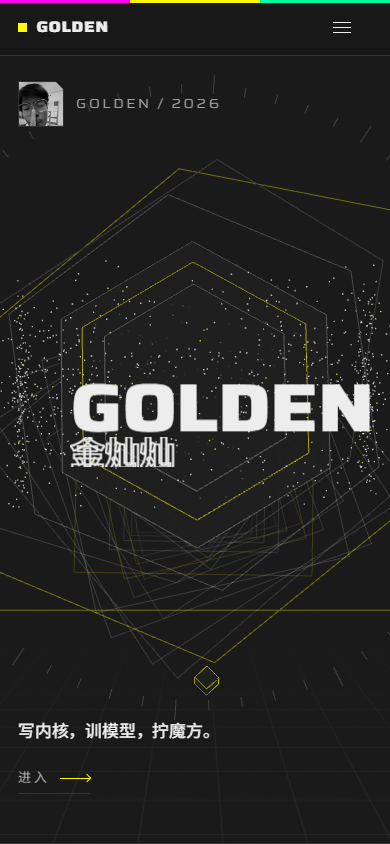
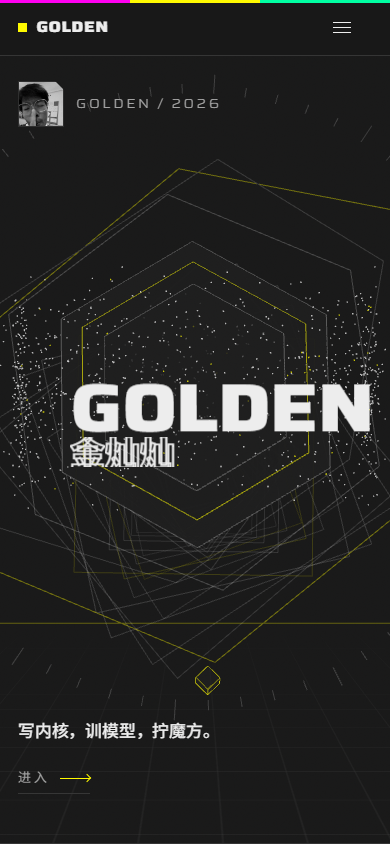
feat: enable 3D on phones/small screens, lazy-mount viewers, lower dpr on mobile, WebGL notice

diff --git a/assets/js/app.js b/assets/js/app.js
@@ -162,7 +162,7 @@
     if (ov) { ov.hidden = true; ov.classList.remove('is-on', 'is-out'); }
     var r = $('#fab-replay');
     if (r) {
-      var can = active && !!(window.__hasWebGL && window.GoldenCity && window.innerWidth >= 900 && !reduce);
+      var can = active && !!(window.__hasWebGL && window.GoldenCity && !reduce);
       r.style.display = can ? '' : 'none';
     }
   }
@@ -208,7 +208,7 @@
   function startFabCinema(replay) {
     if (cinema.playing) return;
     if (location.search.indexOf('nocine') >= 0) { markFabDone(false); return; }
-    if (!window.GoldenCity || reduce || window.innerWidth < 900 || !window.__hasWebGL) {
+    if (!window.GoldenCity || reduce || !window.__hasWebGL) {
       markFabDone(false);
       return;
     }
@@ -259,7 +259,7 @@
     });
     var fab = document.getElementById('fab');
     if (!fab) return;
-    if (!window.__hasWebGL || reduce || window.innerWidth < 900) { markFabDone(false); return; }
+    if (!window.__hasWebGL || reduce) { markFabDone(false); return; }
     if (!('IntersectionObserver' in window)) { return; }
     var io = new IntersectionObserver(function (entries) {
       if (entries[0].isIntersecting && !cinema.played) {
@@ -335,6 +335,7 @@
     renderFabCinema();
     syncArch();
     prepareText();
+    webglNotice();
     if (state.booted) setTimeout(revealVisible, 60);
     if (persist) { try { localStorage.setItem('golden-lang', state.lang); } catch (e) {} }
     applyTheme(state.theme, false);
@@ -622,20 +623,20 @@
     } catch (e) { archApi = null; }
   }
   var specimens = { skills: null, works: null, fab: null };
-  function mountSpecimens() {
-    if (!window.GoldenSpecimen) return;
-    $$('.specimen-canvas[data-specimen]').forEach(function (cv) {
-      var kind = cv.getAttribute('data-specimen');
-      if (specimens[kind]) return;
-      var api = window.GoldenSpecimen.mount(cv, kind, { theme: state.theme });
-      if (!api) return;
-      specimens[kind] = api;
-      var wrap = cv.closest('.skill-stage, .work-stage, .fab-art');
-      if (wrap) wrap.classList.add('has-specimen');
-    });
-    if (specimens.skills) specimens.skills.setVariant(state.skill);
-    if (specimens.works) specimens.works.setVariant(state.work);
-    if (specimens.fab) specimens.fab.setVariant(0);
+  function ensureSpecimen(kind) {
+    if (specimens[kind] || !window.GoldenSpecimen) return;
+    /* on phones the fab block is replaced by the city cinema; skip one WebGL context */
+    if (kind === 'fab' && window.innerWidth < 900) return;
+    var cv = document.querySelector('.specimen-canvas[data-specimen="' + kind + '"]');
+    if (!cv) return;
+    var api = window.GoldenSpecimen.mount(cv, kind, { theme: state.theme });
+    if (!api) return;
+    specimens[kind] = api;
+    var wrap = cv.closest('.skill-stage, .work-stage, .fab-art');
+    if (wrap) wrap.classList.add('has-specimen');
+    if (kind === 'skills') api.setVariant(state.skill);
+    else if (kind === 'works') api.setVariant(state.work);
+    else api.setVariant(0);
   }
 
   function renderKinetic() {
@@ -1144,8 +1145,18 @@
     setTimeout(function () { if (!done) { setTarget(100); setTimeout(finish, 200); } }, MIN + 4000);
   }
 
+  function webglNotice() {
+    if (window.__hasWebGL) return;
+    document.documentElement.classList.add('no-webgl');
+    var el = $('#foot-webgl');
+    if (el) el.textContent = state.lang === 'en'
+      ? '3D off · this browser has no WebGL / hardware acceleration'
+      : '3D 已关闭 · 浏览器未启用 WebGL / 硬件加速';
+  }
+
   function startSite() {
     if (state.booted) return;
+    webglNotice();
     state.booted = true;
     document.body.classList.add('is-ready');
     setTimeout(function () {
@@ -1155,7 +1166,6 @@
       }
       ensureArch();
       if (archApi && archApi.pause) archApi.pause();
-      mountSpecimens();
       if (window.GoldenCube && window.__hasWebGL) {
         try {
           var api = window.GoldenCube.mount($('#cube-root'));
@@ -1452,8 +1462,9 @@
             setTimeout(function () { pg.classList.remove('is-entering'); }, 1400);
           }
         }
-        if (en.target.id === 'skills' && specimens.skills && specimens.skills.replay) specimens.skills.replay();
-        if (en.target.id === 'works' && specimens.works && specimens.works.replay) specimens.works.replay();
+        if (en.target.id === 'skills') { ensureSpecimen('skills'); if (specimens.skills && specimens.skills.replay) specimens.skills.replay(); }
+        if (en.target.id === 'works') { ensureSpecimen('works'); if (specimens.works && specimens.works.replay) specimens.works.replay(); }
+        if (en.target.id === 'fab') ensureSpecimen('fab');
         io.unobserve(en.target);
       });
     }, { threshold: 0.14, rootMargin: '0px 0px -5% 0px' });

diff --git a/tools/qa/mobile3d.js b/tools/qa/mobile3d.js
@@ -1,0 +1,55 @@
+const { chromium } = require("playwright");
+const path = require("path");
+const URL = "file:///" + path.resolve(__dirname, "../../index.html").replace(/\\\\/g, "/");
+(async () => {
+  const b = await chromium.launch();
+  const out = { errors: [] };
+  const ctx = await b.newContext({ viewport: { width: 390, height: 844 }, isMobile: true, hasTouch: true, deviceScaleFactor: 2 });
+  const p = await ctx.newPage();
+  p.on("pageerror", e => out.errors.push("PAGEERROR " + e.message));
+  p.on("console", m => { if (m.type() === "error") out.errors.push("CONSOLE " + m.text()); });
+  await p.goto(URL + "?nocine=1", { waitUntil: "load" });
+  await p.waitForTimeout(5200);
+  out.base = await p.evaluate(() => ({
+    webgl: window.__hasWebGL,
+    hero: !!document.querySelector("#hero-canvas"),
+    construct: getComputedStyle(document.getElementById("construct-canvas")).display,
+    cube: document.getElementById("cube-root").className,
+    overflow: document.documentElement.scrollWidth - innerWidth
+  }));
+  await p.screenshot({ path: "shots/m-hero-3d.png" });
+  await p.evaluate(() => window.scrollTo(0, document.getElementById("skills").offsetTop - 50));
+  await p.waitForTimeout(2000);
+  out.skills = await p.evaluate(() => {
+    const cv = document.querySelector('.skill-stage .specimen-canvas');
+    const g = document.createElement("canvas"); g.width=160; g.height=120;
+    const cx = g.getContext("2d"); cx.drawImage(cv,0,0,160,120);
+    const d = cx.getImageData(0,0,160,120).data; let n=0; for(let i=3;i<d.length;i+=4) if(d[i]>8)n++;
+    return { has: document.querySelectorAll(".has-specimen").length, nonEmpty: n, w: cv.width, h: cv.height };
+  });
+  await p.screenshot({ path: "shots/m-skills-3d.png" });
+  await p.evaluate(() => window.scrollTo(0, document.getElementById("works").offsetTop - 50));
+  await p.waitForTimeout(1800);
+  out.works = await p.evaluate(() => {
+    const cv = document.querySelector('.work-stage .specimen-canvas');
+    const g = document.createElement("canvas"); g.width=160; g.height=120;
+    const cx = g.getContext("2d"); cx.drawImage(cv,0,0,160,120);
+    const d = cx.getImageData(0,0,160,120).data; let n=0; for(let i=3;i<d.length;i+=4) if(d[i]>8)n++;
+    return { nonEmpty: n, w: cv.width, h: cv.height };
+  });
+  await p.screenshot({ path: "shots/m-works-3d.png" });
+
+  // mobile city cinema
+  const p2 = await ctx.newPage();
+  p2.on("pageerror", e => out.errors.push("CINEMA " + e.message));
+  await p2.goto(URL, { waitUntil: "load" });
+  await p2.waitForTimeout(5200);
+  await p2.evaluate(() => window.scrollTo(0, document.getElementById("fab").offsetTop - 80));
+  await p2.waitForSelector("#fab-cinema.is-on", { timeout: 15000 });
+  await p2.waitForSelector("#fab-cinema.is-shenzhen", { timeout: 16000 });
+  await p2.waitForTimeout(900);
+  await p2.screenshot({ path: "shots/m-cinema-3d.png" });
+  out.cinema = await p2.evaluate(() => ({ parent: document.getElementById("city-canvas").parentElement.id, locked: document.documentElement.classList.contains("is-cinema"), overflow: document.documentElement.scrollWidth - innerWidth }));
+  console.log(JSON.stringify(out, null, 2));
+  await b.close();
+})();

diff --git a/tools/qa/final-mobile.js b/tools/qa/final-mobile.js
@@ -1,0 +1,35 @@
+const { chromium } = require("playwright");
+const path = require("path");
+const URL = "file:///" + path.resolve(__dirname, "../../index.html").replace(/\\\\/g, "/");
+(async () => {
+  const b = await chromium.launch();
+  const out = { errors: [] };
+  // mobile finish landing
+  const mctx = await b.newContext({ viewport: { width: 390, height: 844 }, isMobile: true, hasTouch: true, deviceScaleFactor: 2 });
+  const mp = await mctx.newPage();
+  mp.on("pageerror", e => out.errors.push("M " + e.message));
+  await mp.goto(URL, { waitUntil: "load" });
+  await mp.waitForTimeout(5200);
+  await mp.evaluate(() => window.scrollTo(0, document.getElementById("fab").offsetTop - 80));
+  await mp.waitForSelector("#fab-cinema.is-on", { timeout: 16000 });
+  await mp.waitForSelector("#fab-cinema.is-shenzhen", { timeout: 18000 });
+  await mp.waitForTimeout(900);
+  await mp.click("#cinema-skip").catch(()=>{});
+  await mp.waitForTimeout(1200);
+  out.mobile = await mp.evaluate(() => ({ overlayHidden: document.getElementById("fab-cinema").hidden, locked: document.documentElement.classList.contains("is-cinema"), fabTop: Math.round(document.getElementById("fab").getBoundingClientRect().top), overflow: document.documentElement.scrollWidth - innerWidth, webgl: window.__hasWebGL }));
+  await mctx.close();
+  // no webgl desktop
+  const nctx = await b.newContext({ viewport: { width: 1440, height: 900 } });
+  await nctx.addInitScript(() => {
+    const o = HTMLCanvasElement.prototype.getContext;
+    HTMLCanvasElement.prototype.getContext = function (t) { if (/webgl/i.test(String(t))) return null; return o.apply(this, arguments); };
+  });
+  const np = await nctx.newPage();
+  np.on("pageerror", e => out.errors.push("N " + e.message));
+  await np.goto(URL + "?nocine=1", { waitUntil: "load" });
+  await np.waitForTimeout(5200);
+  out.noWebgl = await np.evaluate(() => ({ webgl: window.__hasWebGL, cls: document.documentElement.classList.contains("no-webgl"), notice: document.getElementById("foot-webgl").textContent, noticeVisible: getComputedStyle(document.getElementById("foot-webgl")).display }));
+  await nctx.close();
+  console.log(JSON.stringify(out, null, 2));
+  await b.close();
+})();

diff --git a/tools/qa/webkit-check.js b/tools/qa/webkit-check.js
@@ -1,0 +1,36 @@
+const { webkit, devices } = require("playwright");
+const path = require("path");
+const URL = "file:///" + path.resolve(__dirname, "../../index.html").replace(/\\\\/g, "/");
+(async () => {
+  const b = await webkit.launch();
+  const out = { errors: [] };
+  const ctx = await b.newContext({ viewport: { width: 1440, height: 900 } });
+  const p = await ctx.newPage();
+  p.on("pageerror", e => out.errors.push("PAGEERROR " + e.message));
+  p.on("console", m => { if (m.type() === "error") out.errors.push("CONSOLE " + m.text()); });
+  await p.goto(URL + "?nocine=1", { waitUntil: "load" });
+  await p.waitForTimeout(6000);
+  out.state = await p.evaluate(() => ({
+    webgl: window.__hasWebGL,
+    booted: document.body.classList.contains("is-ready"),
+    hero: !!document.querySelector("#hero-canvas"),
+    construct: getComputedStyle(document.getElementById("construct-canvas")).display,
+    cube: document.getElementById("cube-root").className,
+    skillsHas: document.querySelectorAll(".has-specimen").length,
+    overflow: document.documentElement.scrollWidth - innerWidth
+  }));
+  await p.evaluate(() => window.scrollTo(0, document.getElementById("skills").offsetTop - 50));
+  await p.waitForTimeout(2500);
+  out.skills = await p.evaluate(() => ({ has: document.querySelectorAll(".has-specimen").length }));
+  await p.screenshot({ path: "shots/wk-skills.png" });
+  // iphone-ish webkit
+  const ictx = await b.newContext({ ...devices["iPhone 13"] });
+  const ip = await ictx.newPage();
+  ip.on("pageerror", e => out.errors.push("IPHONE " + e.message));
+  await ip.goto(URL + "?nocine=1", { waitUntil: "load" });
+  await ip.waitForTimeout(6000);
+  out.iphone = await ip.evaluate(() => ({ webgl: window.__hasWebGL, booted: document.body.classList.contains("is-ready"), hero: !!document.querySelector("#hero-canvas"), overflow: document.documentElement.scrollWidth - innerWidth }));
+  await ip.screenshot({ path: "shots/wk-iphone-hero.png" });
+  console.log(JSON.stringify(out, null, 2));
+  await b.close();
+})();

diff --git a/assets/css/main.css b/assets/css/main.css
@@ -1922,7 +1922,6 @@ html[data-theme="light"] .poster-scan{mix-blend-mode:normal;opacity:.2}
   .community-poster{justify-self:start;max-width:340px}
 }
 @media (max-width:900px){
-  .construct-canvas{display:none}
 }
 @media (max-width:720px){
   .hero-foot{flex-direction:column;align-items:flex-start;gap:1.2rem}
@@ -2216,8 +2215,17 @@ html[data-theme="light"] .specimen-canvas{opacity:.95}
 html.is-cinema,html.is-cinema body{overflow:hidden}
 html.is-cinema .rail,html.is-cinema .nav,html.is-cinema .topbar{opacity:0;pointer-events:none;transition:opacity .3s}
 @media (max-width:900px){
-  .fab-cinema{display:none}
-  .fab-replay{display:none !important}
+  .cinema-ui{padding:18px}
+  .cinema-title{font-size:clamp(2.1rem,9vw,4rem)}
+  .cinema-intro{font-size:.82rem;margin-top:1rem}
+  .cinema-city{font-size:clamp(4.2rem,24vw,9rem);bottom:120px;left:18px}
+  .cinema-cap{display:none}
+  .cinema-fields{font-size:.56rem;gap:.7rem;flex-wrap:wrap}
+  .cinema-skip{height:34px;padding:0 .8rem;font-size:.6rem}
+  .stage-hud{top:.5rem;left:.5rem;right:.5rem;font-size:.5rem;letter-spacing:.12em;gap:.45rem}
+  .stage-hud > span:first-child{display:none}
+  .stage-hud b{white-space:nowrap}
+  .stage-hud em{padding:.26em .4em;font-size:.5rem}
 }
 @media (prefers-reduced-motion:reduce){
   .fab-cinema{display:none}
@@ -2399,3 +2407,9 @@ html.js [data-enter="power"].is-in .work-stage{clip-path:inset(0 0 0 0);transfor
   margin:.7rem 0 0;font:500 .58rem/1 var(--mono);letter-spacing:.22em;
   text-transform:uppercase;color:var(--ink-3);
 }
+
+
+/* shown only when the browser cannot create a WebGL context */
+.foot-webgl{display:none;margin:.7rem 0 0;font:500 .58rem/1.4 var(--mono);letter-spacing:.14em;color:var(--ink-3);text-transform:uppercase}
+html.no-webgl .foot-webgl{display:block}
+html.no-webgl .foot-webgl::before{content:"";display:inline-block;width:6px;height:6px;background:#8a8a8a;margin-right:.7em;vertical-align:1px}

diff --git a/assets/js/city.js b/assets/js/city.js
@@ -264,6 +264,7 @@
 
   function buildCity() {
     var rnd = rng(20261115);
+    var mobile = window.innerWidth < 900;
     var data = [];
     var step = 0.44;
     for (var gx = -7.4; gx <= 7.4; gx += step) {
@@ -281,6 +282,7 @@
         if (Math.hypot(x + 4.8, z - 4.2) < 0.8) continue;       /* dome */
         var chance = d < 4.6 ? 0.8 : 0.58;
         if (rnd() > chance) continue;
+        if (mobile && rnd() < 0.4) continue;
         var base = Math.max(0.35, 2.5 - d * 0.30);
         var h = base * (0.45 + rnd() * 0.85);
         if (rnd() < 0.06) h *= 1.7;
@@ -478,14 +480,13 @@
 
   function mount(canvas) {
     if (S.mounted || !THREE || !window.__hasWebGL || !canvas) return null;
-    if (window.innerWidth < 900) return null;
     var renderer;
     try {
       renderer = new THREE.WebGLRenderer({ canvas: canvas, alpha: true, antialias: true, powerPreference: 'high-performance' });
     } catch (e) { return null; }
     S.canvas = canvas;
     S.reduce = window.matchMedia('(prefers-reduced-motion: reduce)').matches;
-    renderer.setPixelRatio(Math.min(window.devicePixelRatio || 1, 1.7));
+    renderer.setPixelRatio(Math.min(window.devicePixelRatio || 1, window.innerWidth < 900 ? 1.2 : 1.7));
     S.renderer = renderer;
     S.theme = document.documentElement.dataset.theme === 'light' ? 'light' : 'dark';
     S.scene = new THREE.Scene();

diff --git a/assets/js/specimen.js b/assets/js/specimen.js
@@ -293,16 +293,16 @@
   /* ---------------------------------------------------------------- */
   function mount(canvas, kind, opts) {
     if (!THREE || !window.__hasWebGL || !canvas) return null;
-    if (window.innerWidth < 900) return null;
     var theme = (opts && opts.theme) || (document.documentElement.dataset.theme === 'light' ? 'light' : 'dark');
     var renderer;
     try {
       renderer = new THREE.WebGLRenderer({ canvas: canvas, alpha: true, antialias: true, preserveDrawingBuffer: true, powerPreference: 'high-performance' });
     } catch (e) { return null; }
-    renderer.setPixelRatio(Math.min(window.devicePixelRatio || 1, 1.7));
+    renderer.setPixelRatio(Math.min(window.devicePixelRatio || 1, window.innerWidth < 900 ? 1.3 : 1.7));
     var scene = new THREE.Scene();
     var camera = new THREE.PerspectiveCamera(36, 1, 0.1, 60);
     var camZ = kind === 'fab' ? 4.4 : (kind === 'skills' || kind === 'works' ? 4.3 : 3.2);
+    if (window.innerWidth < 900) camZ *= 1.18;
     camera.position.set(0, 0.1, camZ);
     scene.add(new THREE.HemisphereLight(0xffffff, 0x242424, 1.1));
     var key = new THREE.DirectionalLight(0xffffff, 1.35);

diff --git a/assets/js/construct.js b/assets/js/construct.js
@@ -187,14 +187,13 @@
   function mount() {
     if (S.mounted) return;
     if (!window.__hasWebGL) return;
-    if (window.innerWidth < 900) return;
     var canvas = document.getElementById('construct-canvas');
     if (!canvas) return;
     S.canvas = canvas;
     try {
       S.renderer = new THREE.WebGLRenderer({ canvas: canvas, alpha: true, antialias: true, preserveDrawingBuffer: true, powerPreference: 'high-performance' });
     } catch (e) { return; }
-    S.renderer.setPixelRatio(Math.min(window.devicePixelRatio || 1, 1.7));
+    S.renderer.setPixelRatio(Math.min(window.devicePixelRatio || 1, window.innerWidth < 900 ? 1.25 : 1.7));
     S.reduce = window.matchMedia('(prefers-reduced-motion: reduce)').matches;
     S.scene = new THREE.Scene();
     S.camera = new THREE.PerspectiveCamera(42, 1, 0.1, 100);

diff --git a/index.html b/index.html
@@ -361,7 +361,8 @@
 
 <footer class="foot">
   <p class="foot-line" data-t="footer.line"></p>
-  <p class="foot-build">V9 · BUILD 2026.11.15</p>
+  <p class="foot-build">V10 · BUILD 2026.11.15</p>
+  <p class="foot-webgl" id="foot-webgl"></p>
   <div class="foot-tools">
     <button class="tool" type="button" data-foot-lang>中 / EN</button>
     <button class="tool" type="button" data-foot-theme>DARK / LIGHT</button>

diff --git a/README.md b/README.md
@@ -3,7 +3,7 @@
 个人博客 / 作品集。深色工业界面，单一信号黄，**整页 3D**：加载页、首屏、章节构造、演示图、魔方全部是真 3D 场景，文字与画面用机械动效组装进场；首页只留必要信息，往下滚才逐章展开。
 
 在线地址：**https://ablazed-gold.github.io/Golden/** （GitHub Pages，免费域名）
-根入口：**https://ablazed-gold.github.io/**（会跳转到 `/Golden/`；页脚有 `V9 · BUILD 2026.11.15` 版本戳）
+根入口：**https://ablazed-gold.github.io/**（会跳转到 `/Golden/`；页脚有 `V10 · BUILD 2026.11.15` 版本戳）
 仓库：https://github.com/Ablazed-Gold/Golden
 
 打开方式：**双击 `index.html`**（不需要构建、不需要服务器）。离线也能用，字体与图片都已本地化。
@@ -43,7 +43,7 @@
 | 演示框（头像、照片、拼图、架构图、作品详情） | 指针驱动的 3D 倾斜（perspective + rotateX/Y） | 跟手倾斜，离开回正 |
 | 文字 | 每个字独立成字块，机械裁切升起（clip-path + translate），标题按字数自适应错开 | 一次入场；章节编号首次出现时乱码后落定 |
 
-手机端为了性能会关闭 3D 构造与 3D 演示图，保留对应的线稿与 2D 入场（内容不丢）。
+手机端也保留 3D：构造层、技能/作品观察窗、打印城市都会挂载，只是降低像素比、减少城市楼栋数量；无 WebGL 或系统要求减少动态效果时才回退到线稿/静态。页脚会在浏览器没有 WebGL 时提示开启硬件加速。
 
 ---
 
@@ -130,7 +130,7 @@ tools/qa/                   本地视觉与交互验收脚本（Playwright，可
 - 按钮与卡片带轻微磁性吸附（桌面端）
 - 生活：照片点击开灯箱（← → / Esc）；15 拼图可打乱/复原
 - 联系：点 `复制` 复制号码；点 `打开` 打开邮箱 / B 站
-- 系统「减少动态效果」：动画、3D 旋转、脉冲停止，内容完整；无 WebGL：3D 层自动关闭，页面照常
+- 手机 / 平板：3D 正常启用（降分辨率、减体量）；系统「减少动态效果」：动画与 3D 旋转停止；无 WebGL：3D 层自动关闭并在页脚提示，页面照常
 
 ## 验收
 
